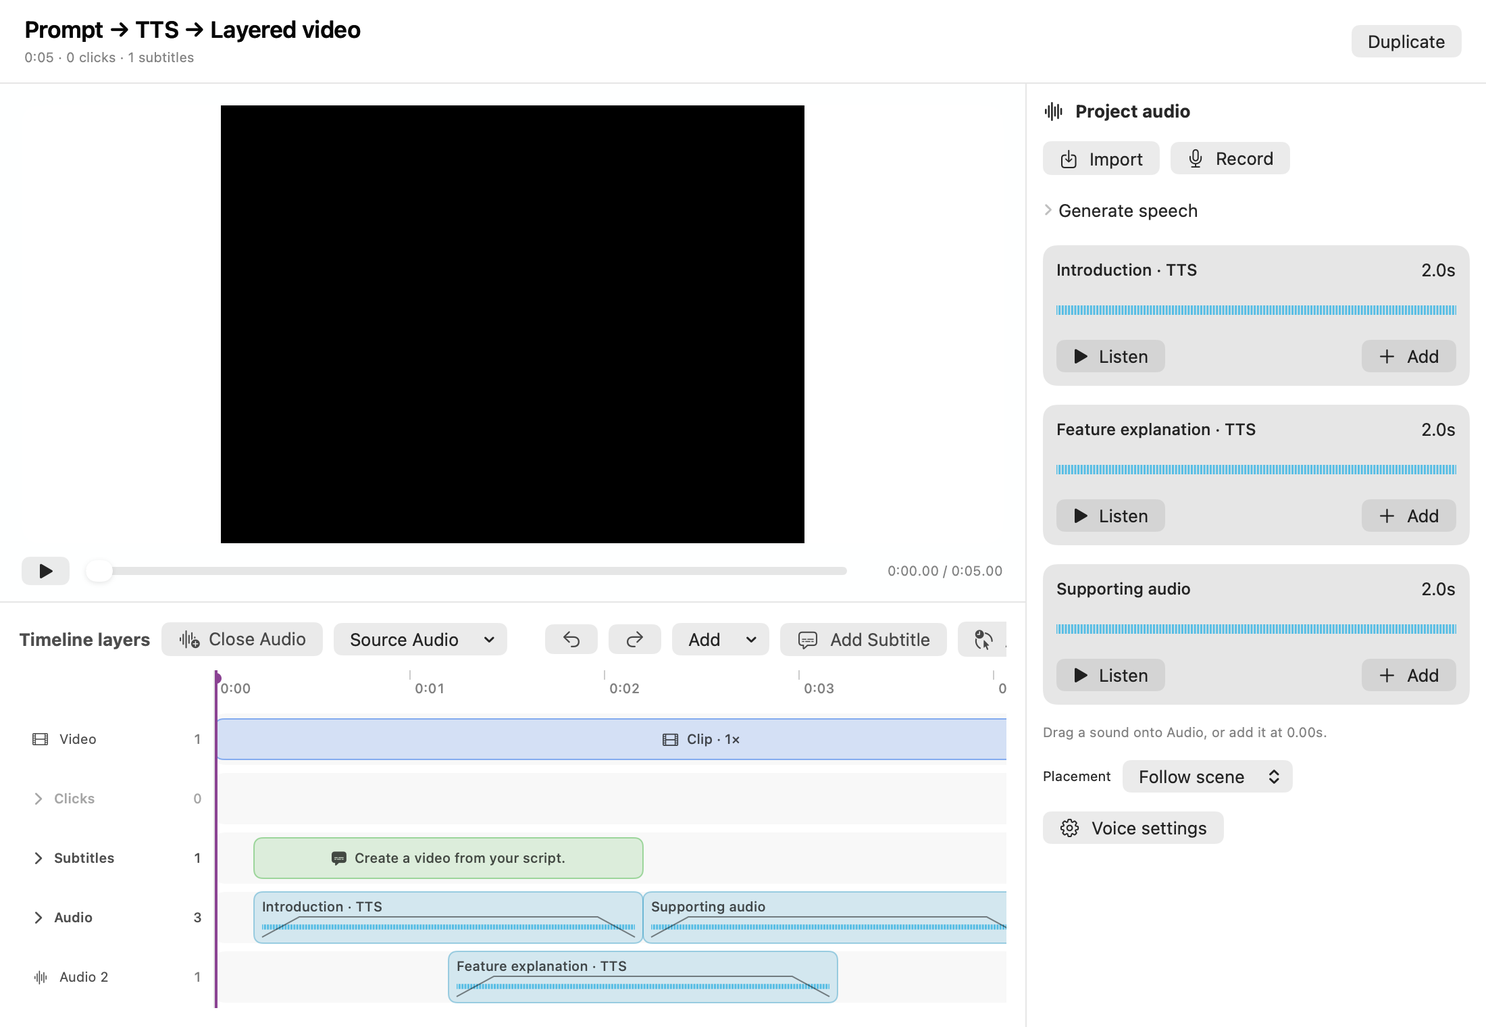
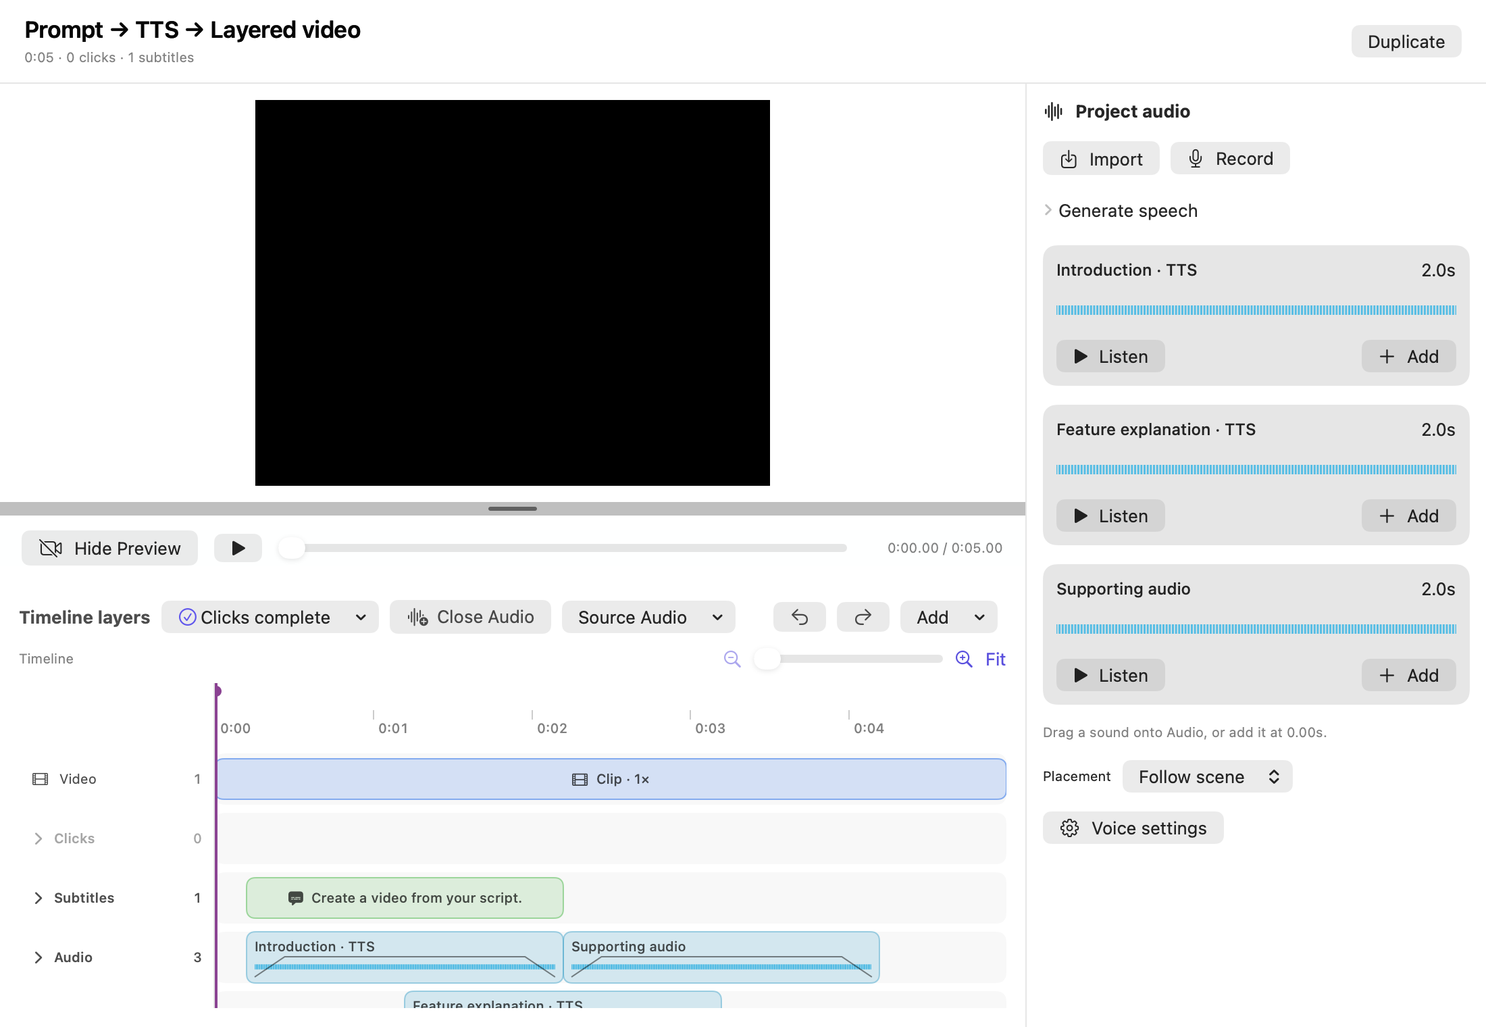
fix(authoring): keep playback responsive and show preview on open

diff --git a/Tests/StorybirdTests/TimelinePreviewLayoutTests.swift b/Tests/StorybirdTests/TimelinePreviewLayoutTests.swift
@@ -7,6 +7,58 @@ import XCTest
 
 @MainActor
 final class TimelinePreviewLayoutTests: XCTestCase {
+    func test_audioInspectorAudition_wholeWorkspaceRemainsResponsive() async throws {
+        let (store, initial) = try await fixture()
+        var project = initial
+        project.subtitles = []
+        project = try store.saveProject(project, expectedRevision: initial.revision)
+        let sound = store.repository.rootURL.appendingPathComponent("audition.wav")
+        try TestVideoFactory.makeToneWAV(at: sound, duration: 2)
+        let asset = try await store.importProjectAudio(projectID: project.id, sourceURL: sound)
+        project = try store.placeAudioAsset(
+            projectID: project.id, assetID: asset.id, expectedRevision: project.revision, startTime: 0.5
+        )
+        project.narrations[0].isMuted = true
+        project = try store.saveProject(project, expectedRevision: project.revision)
+        let view = NSHostingView(rootView: editorContent(store, project: project, width: 1100, height: 760))
+        let window = NSWindow(contentRect: NSRect(x: -10_000, y: -10_000, width: 1100, height: 760),
+                              styleMask: [.titled, .closable], backing: .buffered, defer: false)
+        window.isReleasedWhenClosed = false
+        window.contentView = view
+        window.orderFront(nil)
+        defer { window.close() }
+        await settle()
+        let bridge = try XCTUnwrap(descendants(view).compactMap { $0 as? TimelineScrollBridgeView }.first)
+        let row = try XCTUnwrap(TimelineTrackLayout.rows(in: project).firstIndex { $0.kind == .narration })
+        let frame = bridge.convert(bridge.bounds, to: nil)
+        let point = NSPoint(x: frame.minX + bridge.bounds.width / CGFloat(project.timelineDuration),
+                           y: frame.maxY - (52 + CGFloat(row) * 44 + 19))
+        sendMouse(.leftMouseDown, at: point, in: window)
+        sendMouse(.leftMouseUp, at: point, in: window)
+        await settle()
+        try snapshot(view, name: "audio-audition-before")
+        let surface = try XCTUnwrap(descendants(view).compactMap { $0 as? AVPlayerView }.first)
+        for startVideo in [false, true] {
+            if startVideo {
+                let controls = try playbackFrame(view)
+                let play = NSPoint(x: controls.minX - 30, y: controls.midY)
+                sendMouse(.leftMouseDown, at: play, in: window)
+                sendMouse(.leftMouseUp, at: play, in: window)
+                await settle()
+                XCTAssertGreaterThan(surface.player?.rate ?? 0, 0)
+            }
+            let listen = NSPoint(x: 905, y: 570)
+            sendMouse(.leftMouseDown, at: listen, in: window)
+            sendMouse(.leftMouseUp, at: listen, in: window)
+            await settle()
+            XCTAssertEqual(surface.player?.rate, 0, "Layer audition must pause the video.")
+            try snapshot(view, name: "audio-audition-playing-\(startVideo)")
+            try await Task.sleep(for: .seconds(3))
+            try snapshot(view, name: "audio-audition-finished-\(startVideo)")
+            XCTAssertEqual(store.project(id: project.id), project)
+        }
+    }
+
     /// Timing controls and the layer form must stay in the same right-hand pane.
     func test_selectedSubtitleAndAudio_keepExactlyTwoEditorColumns() async throws {
         let (store, initial) = try await fixture()
@@ -52,9 +104,9 @@ final class TimelinePreviewLayoutTests: XCTestCase {
         }
     }
 
-    func test_previewVisibility_startsEmptyAndRepeatedTogglesRestoreActualPreview() {
+    func test_previewVisibility_startsVisibleAndRepeatedTogglesRestoreActualPreview() {
         var layout = TimelinePreviewLayout()
-        XCTAssertEqual(layout.visibility, .empty)
+        XCTAssertEqual(layout.visibility, .visible)
         layout.toggleVisibility()
         XCTAssertEqual(layout.visibility, .hidden)
         for _ in 0..<5 {
@@ -67,15 +119,12 @@ final class TimelinePreviewLayoutTests: XCTestCase {
 
     func test_boundaryDrag_clampsBothEndsAndPreservesTimelineSpace() {
         var layout = TimelinePreviewLayout()
-        for visibility in [TimelinePreviewLayout.Visibility.empty, .visible] {
-            layout.visibility = visibility
-            layout.resize(from: 250, translation: 80, totalHeight: 760, minimumTimelineHeight: 208)
-            XCTAssertEqual(layout.previewHeight(totalHeight: 760, minimumTimelineHeight: 208), 330)
-            layout.resize(from: 250, translation: 10_000, totalHeight: 760, minimumTimelineHeight: 208)
-            XCTAssertEqual(layout.previewHeight(totalHeight: 760, minimumTimelineHeight: 208), 542)
-            layout.resize(from: 250, translation: -10_000, totalHeight: 760, minimumTimelineHeight: 208)
-            XCTAssertEqual(layout.previewHeight(totalHeight: 760, minimumTimelineHeight: 208), 100)
-        }
+        layout.resize(from: 250, translation: 80, totalHeight: 760, minimumTimelineHeight: 208)
+        XCTAssertEqual(layout.previewHeight(totalHeight: 760, minimumTimelineHeight: 208), 330)
+        layout.resize(from: 250, translation: 10_000, totalHeight: 760, minimumTimelineHeight: 208)
+        XCTAssertEqual(layout.previewHeight(totalHeight: 760, minimumTimelineHeight: 208), 542)
+        layout.resize(from: 250, translation: -10_000, totalHeight: 760, minimumTimelineHeight: 208)
+        XCTAssertEqual(layout.previewHeight(totalHeight: 760, minimumTimelineHeight: 208), 100)
     }
 
     func test_hiddenPreview_reservesNoHeightAndIgnoresDrags() {
@@ -107,7 +156,7 @@ final class TimelinePreviewLayoutTests: XCTestCase {
         layout.toggleVisibility()
         XCTAssertEqual(layout.visibility, .visible)
         XCTAssertEqual(layout.previewHeight(totalHeight: 760, minimumTimelineHeight: 208), 330)
-        XCTAssertEqual(TimelinePreviewLayout().visibility, .empty, "A new editor does not inherit this view choice.")
+        XCTAssertEqual(TimelinePreviewLayout().visibility, .visible, "A new editor does not inherit this view choice.")
     }
 
     func test_zeroAvailableHeight_doesNotDivideByZeroOrErasePreferredSplit() {
@@ -120,7 +169,7 @@ final class TimelinePreviewLayoutTests: XCTestCase {
         XCTAssertEqual(layout.previewHeight(totalHeight: 760, minimumTimelineHeight: 208), 450)
     }
 
-    func test_previewUI_emptyLoadToggleAndResizePreserveProjectInWideAndCompactWindows() async throws {
+    func test_previewUI_autoDisplayToggleAndResizePreserveProjectInWideAndCompactWindows() async throws {
         let (store, project) = try await fixture()
         for width in [1100.0, 760.0] {
             let view = NSHostingView(rootView: editorContent(store, project: project, width: width, height: 760))
@@ -134,11 +183,11 @@ final class TimelinePreviewLayoutTests: XCTestCase {
             window.orderFront(nil)
             defer { window.close() }
             await settle()
-            XCTAssertFalse(descendants(view).contains { $0 is AVPlayerView })
+            XCTAssertTrue(descendants(view).contains { $0 is AVPlayerView })
             let initialHeight = try timelineViewport(view).frame.height
-            try snapshot(view, name: "empty-\(Int(width))")
+            try snapshot(view, name: "initial-visible-\(Int(width))")
 
-            // A placeholder can be hidden before any actual frame is displayed.
+            // The automatically displayed video can still yield space.
             try togglePreview(in: view)
             await settle()
             XCTAssertGreaterThan(try timelineViewport(view).frame.height, initialHeight + 100)
@@ -196,7 +245,7 @@ final class TimelinePreviewLayoutTests: XCTestCase {
         }
     }
 
-    func test_emptyPreview_showButtonLoadsActualPlayer() async throws {
+    func test_previewOpen_loadsActualPlayerWithoutClickOrAutoplay() async throws {
         let (store, project) = try await fixture()
         let view = NSHostingView(rootView: ProjectWorkspaceView(store: store, projectID: project.id)
             .frame(width: 760, height: 760).background(Color(nsColor: .windowBackgroundColor)))
@@ -208,18 +257,18 @@ final class TimelinePreviewLayoutTests: XCTestCase {
         window.orderFront(nil)
         defer { window.close() }
         await settle()
-        try snapshot(view, name: "single-empty")
-        let slider = try XCTUnwrap(descendants(view).compactMap { $0 as? NSSlider }.first)
-        let controls = slider.convert(slider.bounds, to: nil)
-        let start = NSPoint(x: 380, y: (controls.midY + 29 + 660) / 2)
-        sendMouse(.leftMouseDown, at: start, in: window)
-        sendMouse(.leftMouseUp, at: start, in: window)
-        await settle()
-        XCTAssertTrue(descendants(view).contains { $0 is AVPlayerView })
+        try snapshot(view, name: "initial-preview")
+        let surface = try XCTUnwrap(descendants(view).compactMap { $0 as? AVPlayerView }.first)
+        XCTAssertNotNil(surface.player?.currentItem)
+        for _ in 0..<100 where !surface.isReadyForDisplay {
+            try await Task.sleep(for: .milliseconds(20))
+        }
+        XCTAssertTrue(surface.isReadyForDisplay, "The first video frame must be ready without a Show or Play click.")
+        XCTAssertEqual(surface.player?.rate, 0)
         XCTAssertEqual(store.project(id: project.id), project)
     }
 
-    func test_unreadableVideo_showsUnavailableWorkspaceBeforePreviewIsRequested() async throws {
+    func test_unreadableVideo_showsUnavailableWorkspace() async throws {
         let (store, project) = try await fixture()
         let url = store.repository.assetURL(projectID: project.id, filename: project.recording!.filename)
         try Data("unreadable synthetic video".utf8).write(to: url)
@@ -250,29 +299,21 @@ final class TimelinePreviewLayoutTests: XCTestCase {
             await settle()
             NotificationCenter.default.post(name: .storybirdOpenProjectAudio, object: project.id)
             await settle()
-            for showingVideo in [false, true] {
-                if showingVideo {
-                    try togglePreview(in: view)
-                    await settle()
-                    try togglePreview(in: view)
-                    await settle()
-                }
-                for delta in [-10_000.0, 10_000.0] {
-                    let divider = try XCTUnwrap(descendants(view).compactMap { $0 as? TimelinePreviewDividerView }.first)
-                    let rect = divider.convert(divider.bounds, to: nil)
-                    let start = NSPoint(x: rect.midX, y: rect.midY)
-                    sendMouse(.leftMouseDown, at: start, in: window)
-                    sendMouse(.leftMouseDragged, at: NSPoint(x: start.x, y: start.y - delta), in: window)
-                    sendMouse(.leftMouseUp, at: NSPoint(x: start.x, y: start.y - delta), in: window)
-                    await settle()
-                    let viewport = try timelineViewport(view)
-                    XCTAssertGreaterThan(viewport.frame.height, 50)
-                    let visible = viewport.convert(viewport.bounds, to: view)
-                    XCTAssertTrue(view.bounds.insetBy(dx: -1, dy: -1).contains(visible))
-                    XCTAssertGreaterThan(try playbackFrame(view).minY, 0)
-                    XCTAssertEqual(descendants(view).contains { $0 is AVPlayerView }, showingVideo)
-                    XCTAssertEqual(store.project(id: project.id), project)
-                }
+            for delta in [-10_000.0, 10_000.0] {
+                let divider = try XCTUnwrap(descendants(view).compactMap { $0 as? TimelinePreviewDividerView }.first)
+                let rect = divider.convert(divider.bounds, to: nil)
+                let start = NSPoint(x: rect.midX, y: rect.midY)
+                sendMouse(.leftMouseDown, at: start, in: window)
+                sendMouse(.leftMouseDragged, at: NSPoint(x: start.x, y: start.y - delta), in: window)
+                sendMouse(.leftMouseUp, at: NSPoint(x: start.x, y: start.y - delta), in: window)
+                await settle()
+                let viewport = try timelineViewport(view)
+                XCTAssertGreaterThan(viewport.frame.height, 50)
+                let visible = viewport.convert(viewport.bounds, to: view)
+                XCTAssertTrue(view.bounds.insetBy(dx: -1, dy: -1).contains(visible))
+                XCTAssertGreaterThan(try playbackFrame(view).minY, 0)
+                XCTAssertTrue(descendants(view).contains { $0 is AVPlayerView })
+                XCTAssertEqual(store.project(id: project.id), project)
             }
             try snapshot(view, name: "audio-small-\(Int(width))")
             XCTAssertThrowsError(try store.undo(projectID: project.id))

diff --git a/Sources/Storybird/TimelinePreviewLayout.swift b/Sources/Storybird/TimelinePreviewLayout.swift
@@ -3,14 +3,14 @@ import SwiftUI
 /// Presentation state stays outside the project so resizing never creates an edit.
 struct TimelinePreviewLayout: Equatable {
     enum Visibility {
-        case empty, visible, hidden
+        case visible, hidden
     }
 
-    var visibility: Visibility = .empty
+    var visibility: Visibility = .visible
     var previewFraction: CGFloat = 0.45
     static let dividerHeight: CGFloat = 10
 
-    /// Both the empty placeholder and a rendered preview can yield their space.
+    /// Hiding the preview yields its space without changing project data.
     mutating func toggleVisibility() {
         visibility = visibility == .hidden ? .visible : .hidden
     }
@@ -56,28 +56,7 @@ struct TimelinePreviewSplitView<Preview: View, Timeline: View>: View {
             )
             VStack(spacing: 0) {
                 if layout.visibility != .hidden {
-                    Group {
-                        if layout.visibility == .empty {
-                            ZStack {
-                                RoundedRectangle(cornerRadius: 10).fill(.black)
-                                Button {
-                                    layout.visibility = .visible
-                                } label: {
-                                    Label("Show Preview", systemImage: "video")
-                                        .foregroundStyle(.white)
-                                        .padding(.horizontal, 14)
-                                        .padding(.vertical, 8)
-                                        .background(.indigo, in: RoundedRectangle(cornerRadius: 8))
-                                }
-                                .buttonStyle(.plain)
-                                .accessibilityIdentifier("timeline-preview-load")
-                            }
-                            .padding(12)
-                        } else {
-                            preview()
-                        }
-                    }
-                    .frame(height: height)
+                    preview().frame(height: height)
 
                     divider(height: height, totalHeight: proxy.size.height)
                 }

diff --git a/Tests/StorybirdTests/AudioAuditionTests.swift b/Tests/StorybirdTests/AudioAuditionTests.swift
@@ -1,5 +1,6 @@
 import AppKit
 import AVFAudio
+import Combine
 import Foundation
 import StorybirdCore
 import SwiftUI
@@ -8,6 +9,16 @@ import XCTest
 
 @MainActor
 final class AudioAuditionTests: XCTestCase {
+    func test_stopWhileIdle_doesNotPublishAnotherEditorUpdate() {
+        let model = AudioAuditionPlayer { _ in AuditionTestPlayback() }
+        var updates = 0
+        let subscription = model.objectWillChange.sink { updates += 1 }
+        model.stop()
+        model.stop()
+        XCTAssertEqual(updates, 0, "A replayed video state must not trigger another editor render.")
+        withExtendedLifetime(subscription) {}
+    }
+
     func test_projectAudioButton_togglesStopAndReturnsToListenWhenFinished() async throws {
         let root = FileManager.default.temporaryDirectory.appendingPathComponent(UUID().uuidString)
         defer { try? FileManager.default.removeItem(at: root) }

diff --git a/Sources/Storybird/AudioAuditionPlayer.swift b/Sources/Storybird/AudioAuditionPlayer.swift
@@ -120,6 +120,11 @@ final class AudioAuditionPlayer: ObservableObject {
     }
 
     func stop() {
+        // SwiftUI subscriptions may replay video state when the editor updates.
+        // Publishing idle -> idle here creates a stop/update/resubscribe loop.
+        guard activeID != nil || isPreparing || preparation != nil || playback != nil || prepared != nil else {
+            return
+        }
         generation = UUID()
         preparation?.cancel()
         preparation = nil

diff --git a/Tests/StorybirdTests/DocumentationScreenshotTests.swift b/Tests/StorybirdTests/DocumentationScreenshotTests.swift
@@ -68,6 +68,7 @@ final class DocumentationScreenshotTests: XCTestCase {
         project = try VideoTimelineEditor.addClickCue(to: project, at: 3.2, x: 0.5, y: 0.5)
         project.clicks[0].description.text = "Choose the next step"
         project.clicks[0].cueSubtitle.text = "Continue the walkthrough"
+        project.clicks[0].cueSubtitle.endTime = 3.9
         try repository.saveProjects([project])
         let store = AppStore(repository: repository)
         try await render(

diff --git a/docs/MCPFeatureParity.md b/docs/MCPFeatureParity.md
@@ -145,7 +145,7 @@ project-editing tools. Changing their scope requires checking the owning ADR.
 | Select microphone, pause/resume/finalize microphone recording | Native recording UI; no MCP microphone start | [Voice](adr/voice-narration/0001-local-cloned-voice-narration.md), [permissions](adr/recording/0003-permission-and-signing.md) |
 | Change/reset project folder, open Finder, configure shortcuts | Native Settings is the entry point; MCP uses the currently selected library | [Settings](adr/application-settings/0001-native-settings-and-shortcuts.md) |
 | Grant OS permissions or accept native capture/deletion prompts | The user approves in macOS/Storybird; capture prompts are skipped only under the user's native auto-approval setting. OS permission and permanent deletion still require native approval | [Permissions](adr/recording/0003-permission-and-signing.md) |
-| Play/pause/seek the native player (including Space), show transient scrub time, zoom/Fit/pinch/Option-scroll the timeline, show/hide/resize preview, fold rows, scroll, select inspector tabs | Local view state has no dedicated MCP control; inspect specified times through rendered frame/audio tools and edit by stable IDs. No project revision or undo change. `TimelineNavigationTests` covers input boundaries, native playback, pinch lifecycle, zoom geometry and pointer anchoring | [Authoring](adr/authoring/0001-timeline-overlay-editor.md) |
+| Play/pause/seek the native player (including Space), automatically display available video without autoplay, show transient scrub time, zoom/Fit/pinch/Option-scroll the timeline, show/hide/resize preview, fold rows, scroll, select inspector tabs | Local view state has no dedicated MCP control; inspect specified times through rendered frame/audio tools and edit by stable IDs. No project revision or undo change. `TimelineNavigationTests` covers input boundaries and navigation; `TimelinePreviewLayoutTests` covers automatic display, hide/restore, resizing and whole-editor video/audio responsiveness | [Authoring](adr/authoring/0001-timeline-overlay-editor.md) |
 | Type or observe keyboard input; record live system audio during screen capture | Unsupported by Storybird itself; no MCP parity path | [Recording](adr/recording/0002-continuous-video-recording.md), [permissions](adr/recording/0003-permission-and-signing.md) |
 
 ## Verification scope

diff --git a/README.md b/README.md
@@ -38,10 +38,11 @@ The preview shows the edited picture; the timeline below holds clips and timed
 layers. This native editor screenshot uses a separate synthetic demo library.
 No customer screen or personal voice sample is included.
 
-Project details start with an empty video area. Choose **Show Preview** to see
-the edited picture, or **Hide Preview** to give the remaining height to timeline
-layers. Drag the handle between the video area and playback controls up or down
-to resize the preview and timeline. Playback controls remain available in every
+Project details show the edited picture automatically when video is available,
+without starting playback. Choose **Hide Preview** to give the remaining height
+to timeline layers, or **Show Preview** to bring the video back. Drag the handle
+between the video area and playback controls up or down to resize the preview
+and timeline. Playback controls remain available in every
 view, and these layout changes do not edit the project.
 The timeline's incomplete-click menu lists missing descriptions or subtitles and
 opens the selected Cue for editing. Export stays disabled until every Cue is complete.

diff --git a/docs/adr/authoring/decision-log.md b/docs/adr/authoring/decision-log.md
@@ -3,6 +3,14 @@
 이 문서는 authoring 카테고리의 주요 결정 변경 이력이다. ADR 본문은 현재 상태만
 서술하고, 주요 전환의 시간축은 여기에 최신 순으로 남긴다.
 
+## 2026-09-19 — 영상 미리보기를 초기 화면에 자동 표시
+
+- **Current ADR**: [timeline-overlay-editor](./0001-timeline-overlay-editor.md)
+- **Change type**: requirement rule change
+- **What**: 빈 영상 영역에서 별도 표시를 선택하던 초기 상태를, 재생 가능한 영상 프레임이
+  자동으로 보이는 상태로 바꾼다. 자동 재생은 하지 않으며 숨기기와 다시 표시하기는 유지한다.
+- **Why**: 영상이 있는 프로젝트에서 편집을 시작할 때마다 표시 버튼을 누르는 단계를 없앤다.
+
 ## 2026-09-19 — 레이어 단독 청취와 미리듣기 상태 표시
 
 - **Current ADR**: [timeline-overlay-editor](./0001-timeline-overlay-editor.md)

diff --git a/docs/Troubleshooting.md b/docs/Troubleshooting.md
@@ -130,6 +130,14 @@ For imported videos, confirm the source contains a readable primary audio track.
 Storybird preserves that track in preview and exports it as one AAC track.
 Original movie audio stays silent during freeze frames, title cards, and CTA cards; independent audio layers can play across those sections.
 
+## The editor freezes while video or audio keeps playing
+
+Update to a build containing the idle-audition stop fix and restart Storybird.
+Earlier builds could repeatedly refresh the editor when video playback tried to
+stop an audio audition that was already stopped. The audio device could continue
+playing while the UI was stuck in that update loop. The fix leaves an already
+idle audition unchanged and preserves normal stop, selection and completion behavior.
+
 ## An edited, narrated project fails with AVFoundation error -11841
 
 Update to a build containing the shared composition-clock fix. Earlier builds

diff --git a/docs/ArchitectureInvariants.md b/docs/ArchitectureInvariants.md
@@ -145,8 +145,8 @@ Read these before changing capture, persistence, or export behavior.
 - **Compact windows change navigation, not reachability.** Below the wide-layout
   threshold, hide the project sidebar automatically and move the timeline
   inspector into a sheet. Playback and every layer action remain reachable.
-- **Preview space is a local view choice.** Start with an empty video area,
-  allow preview display and repeated hiding, and give hidden preview space to
+- **Preview space is a local view choice.** Show the actual preview initially
+  when playable video is available without autoplay; allow repeated hiding, and give hidden preview space to
   timeline layers. Dragging the boundary resizes the viewports, not layer rows.
   Keep playback and layer scrolling reachable in both window layouts without
   changing project data, revision, or undo.

diff --git a/CONTRIBUTING.md b/CONTRIBUTING.md
@@ -233,7 +233,7 @@ steps using the matrix above; this is a catalog, not an all-changes checklist:
 2. Confirm the source sheet fits on screen and scrolls internally.
 3. Resize the main window to its minimum size. Confirm the project sidebar
    collapses and the timeline inspector opens as a sheet without clipping.
-   Confirm project details start with an empty video area. Show and hide the
+   Confirm project details automatically show the available video without autoplay. Show and hide the
    preview repeatedly, drag its boundary in both directions, and resize the
    window. The hidden preview gives all remaining height to the timeline;
    playback controls and the final layer remain reachable without a project edit.
